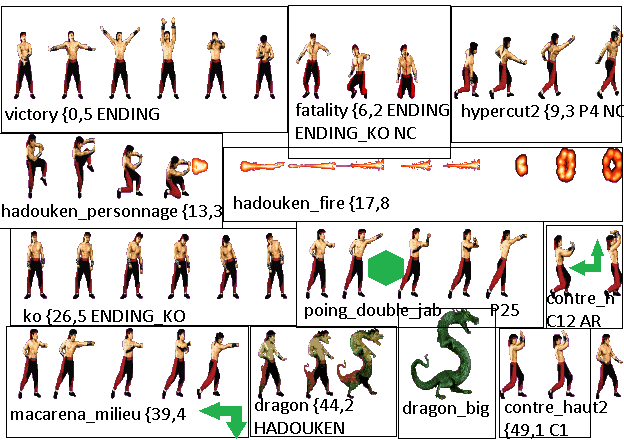
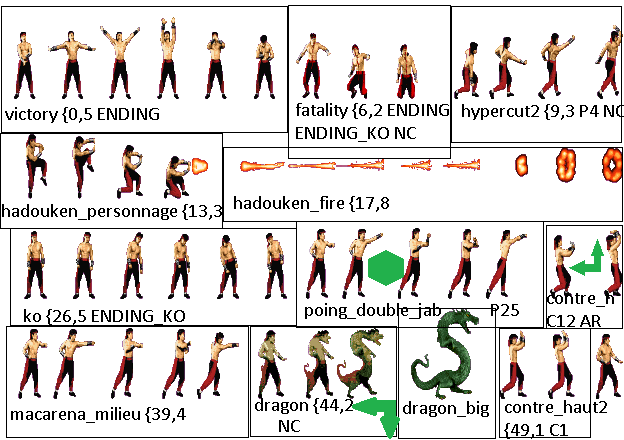
humiliation dragon

Changed region(s): [[0.3045, 0.9159, 0.5481, 1.0], [0.5481, 0.8864, 0.6394, 1.0]]

diff --git a/JDVPA#3_test/combat2.c b/JDVPA#3_test/combat2.c
@@ -396,7 +396,7 @@ const struct CALQUE_J1R J1R= {
 	.poing_double_jab={32,4,0,PORTE_EN_2 | PORTE_EN_5,BANK_5,0},
 	.contre_haut={37,1,CONTRE_EN_1 | CONTRE_EN_2,0,BANK_5,ALLEZ_RETOUR},
 	.macarena_milieu={39,4,0,0,BANK_5,0},
-	.dragon={44,2,0,0,BANK_5 | HADOUKEN,0},
+	.dragon={44,2,0,0,BANK_5 /*| HADOUKEN*/,NON_CYCLIQUE},
 	.dragon_big={47,1,0,0,BANK_5,0},
 	.contre_haut2={49,1,CONTRE_EN_1 | CONTRE_EN_2,0,BANK_5,ALLEZ_RETOUR}
 };
@@ -1003,7 +1003,7 @@ void main(void)
 
 	mapping_direction_calque[PERSO_LIU_KANG][DIRECTION_GAUCHE | DIRECTION_HAUT | DIRECTION_FIRE]=&J1R.contre_haut2; // contre
 	mapping_direction_calque[PERSO_LIU_KANG][DIRECTION_GAUCHE | DIRECTION_FIRE]=&J1A.poing_milieu; // revers
-	mapping_direction_calque[PERSO_LIU_KANG][DIRECTION_GAUCHE | DIRECTION_BAS | DIRECTION_FIRE]=&J1R.macarena_milieu; // humiliation
+	mapping_direction_calque[PERSO_LIU_KANG][DIRECTION_GAUCHE | DIRECTION_BAS | DIRECTION_FIRE]=&J1R.dragon; // humiliation
 
 	mapping_direction_calque[PERSO_LIU_KANG][DIRECTION_HAUT]=&J1A.haut; // haut
 	mapping_direction_calque[PERSO_LIU_KANG][DIRECTION_BAS]=&J1A.bas; // bas
